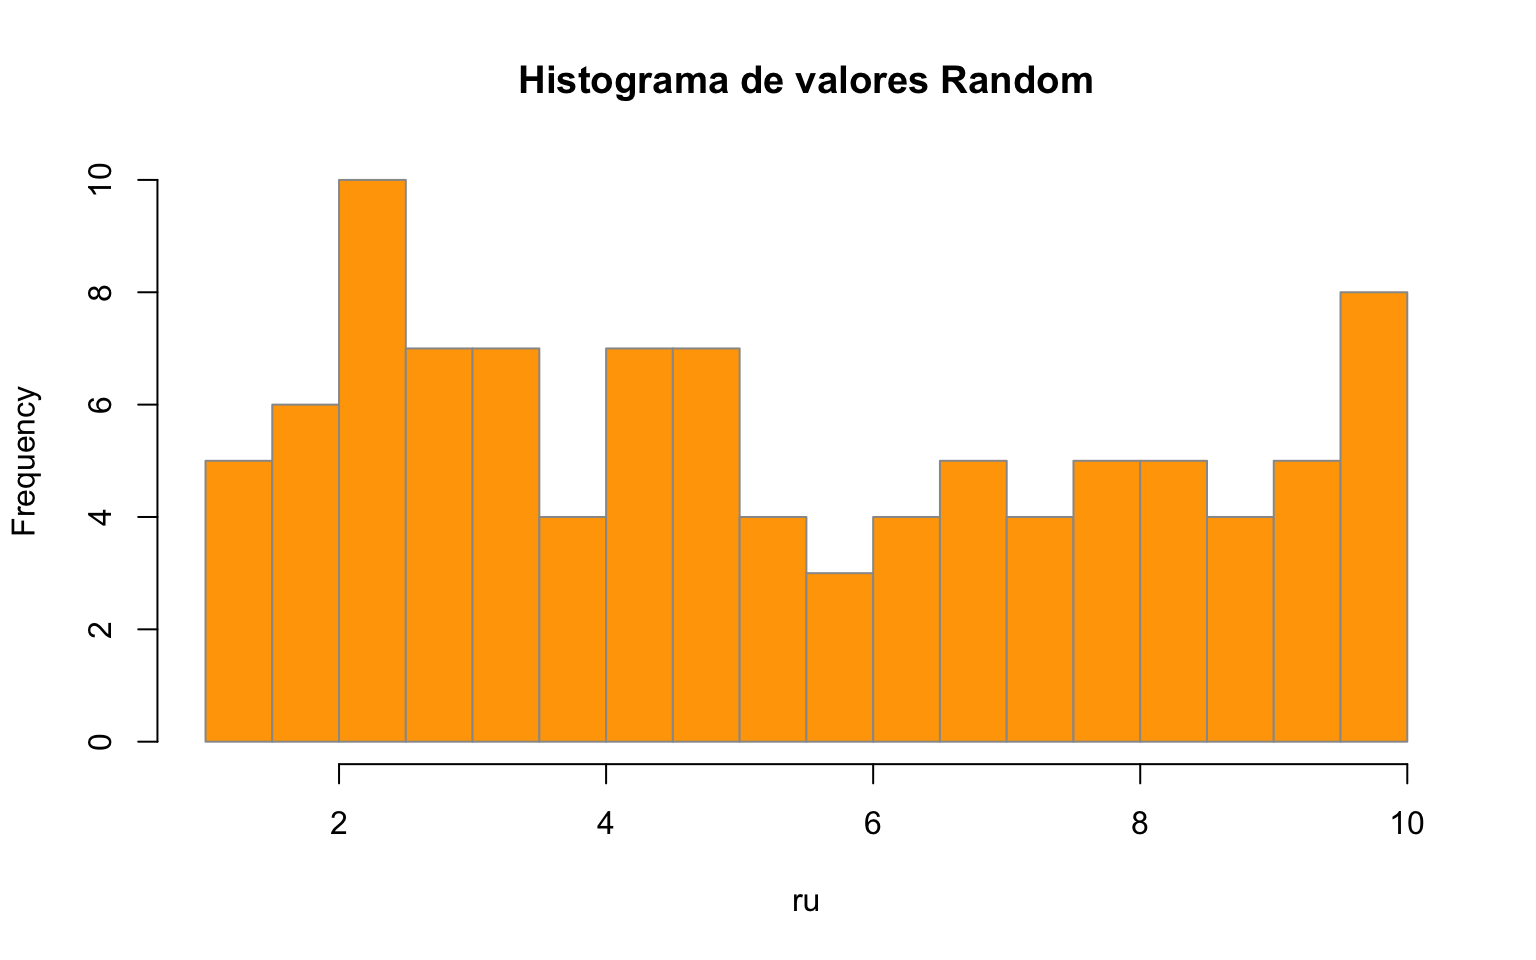
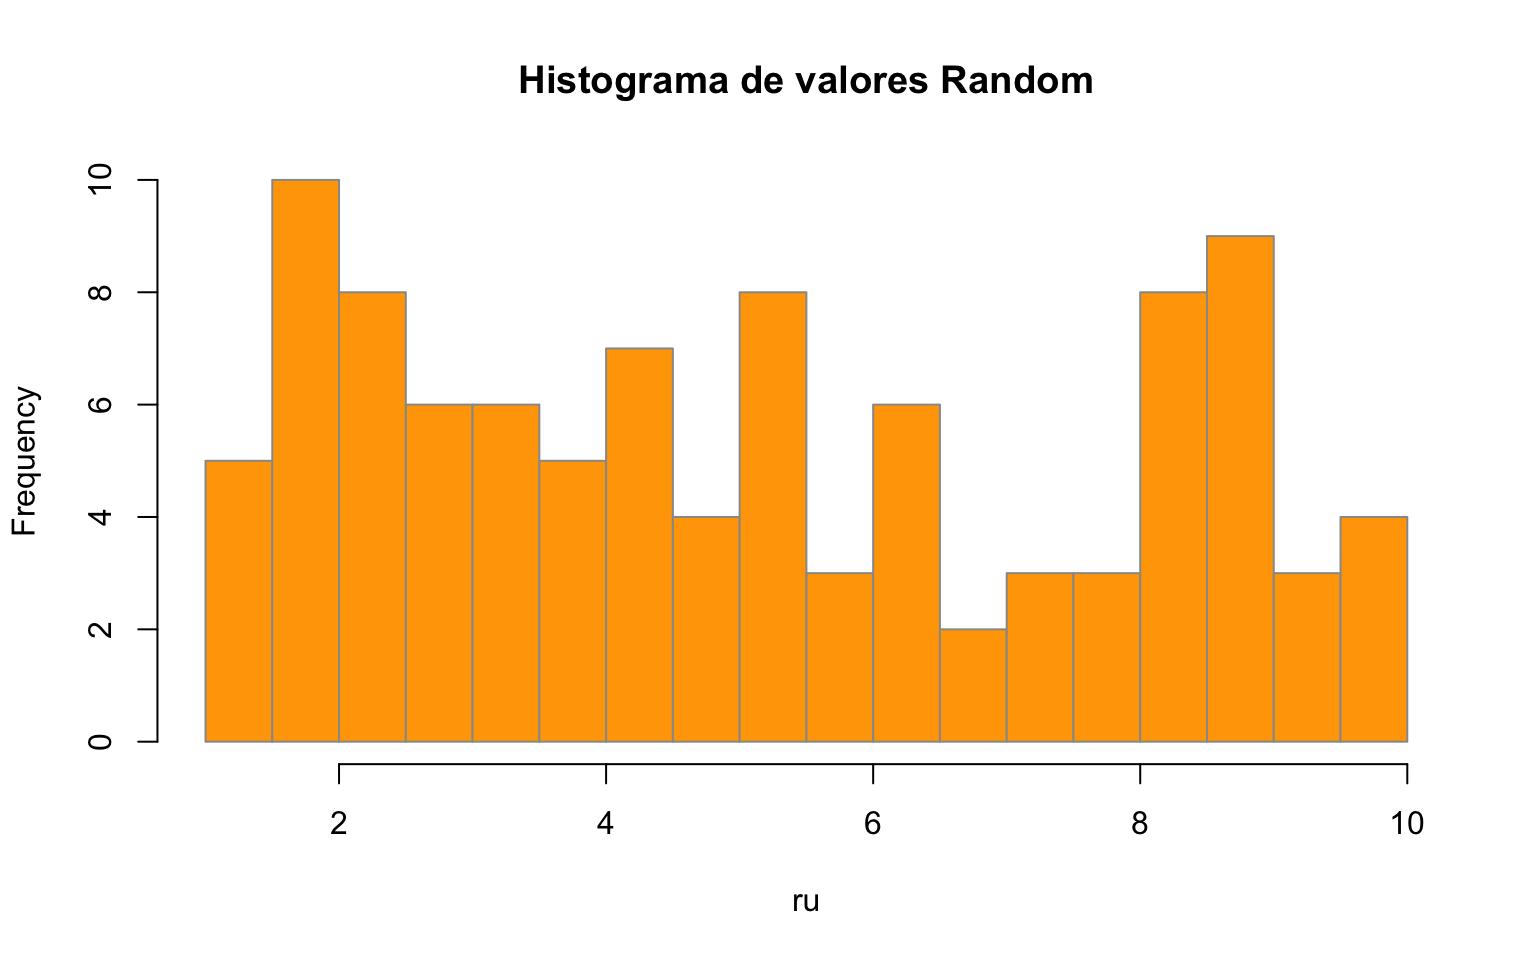
Built site for gh-pages

diff --git a/variables.html b/variables.html
@@ -305,19 +305,19 @@ pre > code.sourceCode > span > a:first-child::before { text-decoration: underlin
 <div class="sourceCode cell-code" id="cb7"><pre class="sourceCode r code-with-copy"><code class="sourceCode r"><span id="cb7-1"><a href="#cb7-1" aria-hidden="true" tabindex="-1"></a>ru <span class="ot">&lt;-</span> <span class="fu">runif</span>(<span class="at">n =</span> <span class="dv">100</span>, <span class="at">min =</span> <span class="dv">1</span>, <span class="at">max =</span> <span class="dv">10</span>)</span>
 <span id="cb7-2"><a href="#cb7-2" aria-hidden="true" tabindex="-1"></a>ru</span></code><button title="Copy to Clipboard" class="code-copy-button"><i class="bi"></i></button></pre></div>
 <div class="cell-output cell-output-stdout">
-<pre><code>  [1] 8.837966 9.291498 4.122216 4.162015 4.187138 8.645044 1.961967 2.886445
-  [9] 8.273420 6.476428 6.298977 8.288403 2.697516 3.031487 6.607449 3.409896
- [17] 4.751787 4.813554 7.377780 8.058551 5.263638 4.444817 3.408550 1.330493
- [25] 2.266778 5.381883 3.980936 5.581833 9.068200 9.961790 6.845650 1.777795
- [33] 7.684821 2.497938 8.268132 9.741941 3.667309 7.326127 7.867117 1.976486
- [41] 2.810010 5.126768 7.382610 4.544255 8.601603 2.482981 1.125703 1.953600
- [49] 5.871716 7.586095 3.613313 6.853794 4.939346 9.907140 9.663098 2.189584
- [57] 4.677062 6.474956 2.959523 7.873221 5.611751 3.480676 9.052917 7.944840
- [65] 3.471693 5.045062 2.309994 8.490624 2.064740 4.200469 4.702204 2.905701
- [73] 9.820836 3.250290 1.543092 9.070790 6.951830 1.098314 6.260703 9.809255
- [81] 9.870340 2.962755 2.490164 2.603053 2.148776 7.349177 9.669137 8.710107
- [89] 4.210965 9.134712 2.087971 3.114333 6.788429 4.383699 1.164516 1.446980
- [97] 4.878619 1.622655 2.022876 3.538873</code></pre>
+<pre><code>  [1] 1.259933 3.307973 1.924165 6.257206 6.176333 2.402581 2.255990 6.545347
+  [9] 8.584716 3.962162 6.214595 5.258946 8.411956 1.432555 5.259520 4.636543
+ [17] 4.847253 8.343322 2.187388 3.299510 2.892593 8.827871 2.819070 3.706239
+ [25] 2.707411 1.666198 5.977948 5.367894 7.454034 3.419829 6.334270 7.729870
+ [33] 8.758932 1.949826 4.092005 5.148937 8.719346 9.672982 5.224670 4.209963
+ [41] 1.621228 1.639925 9.169226 3.660033 8.043306 2.463111 6.267957 2.374398
+ [49] 1.204127 2.058890 4.317953 7.358960 9.129498 3.274105 2.712913 6.443247
+ [57] 4.865444 3.462964 4.077030 2.602291 8.773947 8.261834 5.369466 7.716810
+ [65] 4.940912 1.872084 1.109535 7.570082 8.056522 9.767103 1.966169 1.222164
+ [73] 4.382979 5.851348 8.779948 3.728519 2.234159 9.961665 8.891315 1.783523
+ [81] 2.485848 5.028419 8.311236 8.439893 3.067904 5.202830 1.875126 6.878730
+ [89] 8.844184 3.942086 8.535244 8.213704 2.527334 1.898563 4.296462 9.093305
+ [97] 4.359904 5.620028 7.096322 9.535887</code></pre>
 </div>
 </div>
 <div class="cell" data-layout-align="center">
@@ -336,7 +336,7 @@ pre > code.sourceCode > span > a:first-child::before { text-decoration: underlin
 <div class="cell">
 <div class="sourceCode cell-code" id="cb10"><pre class="sourceCode r code-with-copy"><code class="sourceCode r"><span id="cb10-1"><a href="#cb10-1" aria-hidden="true" tabindex="-1"></a><span class="fu">sample.int</span>(<span class="at">n =</span> <span class="dv">6</span>, <span class="at">size =</span> <span class="dv">10</span>, <span class="at">replace =</span> T)</span></code><button title="Copy to Clipboard" class="code-copy-button"><i class="bi"></i></button></pre></div>
 <div class="cell-output cell-output-stdout">
-<pre><code> [1] 5 2 6 2 5 1 6 6 2 5</code></pre>
+<pre><code> [1] 2 1 6 3 4 2 5 2 2 5</code></pre>
 </div>
 </div>
 </section>

diff --git a/index.html b/index.html
@@ -280,6 +280,7 @@ ul.task-list li input[type="checkbox"] {
 <p><strong>Presencia Activa</strong>: Este curso, por su metodología experiencial, requiere de una participación activa de los participantes. Es importante descubrir las fuentes de distracción y evitarlas. Las más usuales son lectura o escritura de e-mails, navegar por internet o utilizar redes sociales. Esto distrae a quien lo hace y restringe al resto del curso de su participación activa.</p>
 <p><strong>Puntualidad y Asistencia</strong>: Será necesario ingresar a clases en forma puntual y permanecer en la misma sin salir, a menos que haya una urgencia. Se requerirá como mínimo un 75% de asistencia). Es importante que quien tuviera problemas para estar a tiempo o para asistir, se ponga en contacto lo antes posible con la coordinadora del curso. Los alumnos que lleguen más de 15 minutos tarde serán considerados ausentes de ese segmento de la sesión. Grabación de la clase: La clase se graba como respaldo en caso haya fallas de internet, y se disponibiliza en la plataforma virtual del curso sin posibilidad de descarga. Está disponible únicamente por 60 días en el servidor de Zoom y posterior a esa fecha se elimina. La visualización posterior de la clase no se considera como asistencia.</p>
 <p><strong>Reunión Zoom recurrente</strong>: <a href="https://uai-cl.zoom.us/j/98936792371?jst=1" class="uri">https://uai-cl.zoom.us/j/98936792371?jst=1</a></p>
+<p><strong>Carpeta de Respaldo de Contenidos</strong>: <a href="https://alumnosuaicl-my.sharepoint.com/:f:/g/personal/denis_berroeta_uai_cl/Eujwj4nL7oFPvZ2zm5W5LKEBbH2sC-Zojs7f7paCLNk3Sg?e=rQJkQq">Curso-Geoanálisis-2025</a></p>
 </section>
 <section id="contenidos" class="level2">
 <h2 class="anchored" data-anchor-id="contenidos">Contenidos</h2>

diff --git a/control_r.html b/control_r.html
@@ -391,10 +391,10 @@ pre > code.sourceCode > span > a:first-child::before { text-decoration: underlin
 <span id="cb17-6"><a href="#cb17-6" aria-hidden="true" tabindex="-1"></a>  <span class="fu">print</span>(promedio)</span>
 <span id="cb17-7"><a href="#cb17-7" aria-hidden="true" tabindex="-1"></a>}</span></code><button title="Copy to Clipboard" class="code-copy-button"><i class="bi"></i></button></pre></div>
 <div class="cell-output cell-output-stdout">
-<pre><code>[1] -0.448339
-[1] -0.1600225
-[1] -0.2654789
-[1] 0.3039994</code></pre>
+<pre><code>[1] -0.2053893
+[1] 0.3118937
+[1] -0.2045676
+[1] -0.0874013</code></pre>
 </div>
 </div>
 </section>
